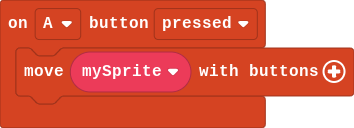
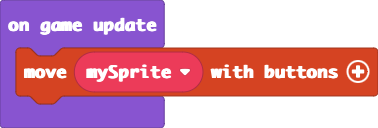
Update main.blocks, main.ts

diff --git a/main.ts b/main.ts
@@ -1,4 +1,7 @@
+let mySprite: Sprite = null
 controller.A.onEvent(ControllerButtonEvent.Pressed, function () {
-    let mySprite: Sprite = null
+    controller.moveSprite(mySprite)
+})
+game.onUpdate(function () {
     controller.moveSprite(mySprite)
 })
